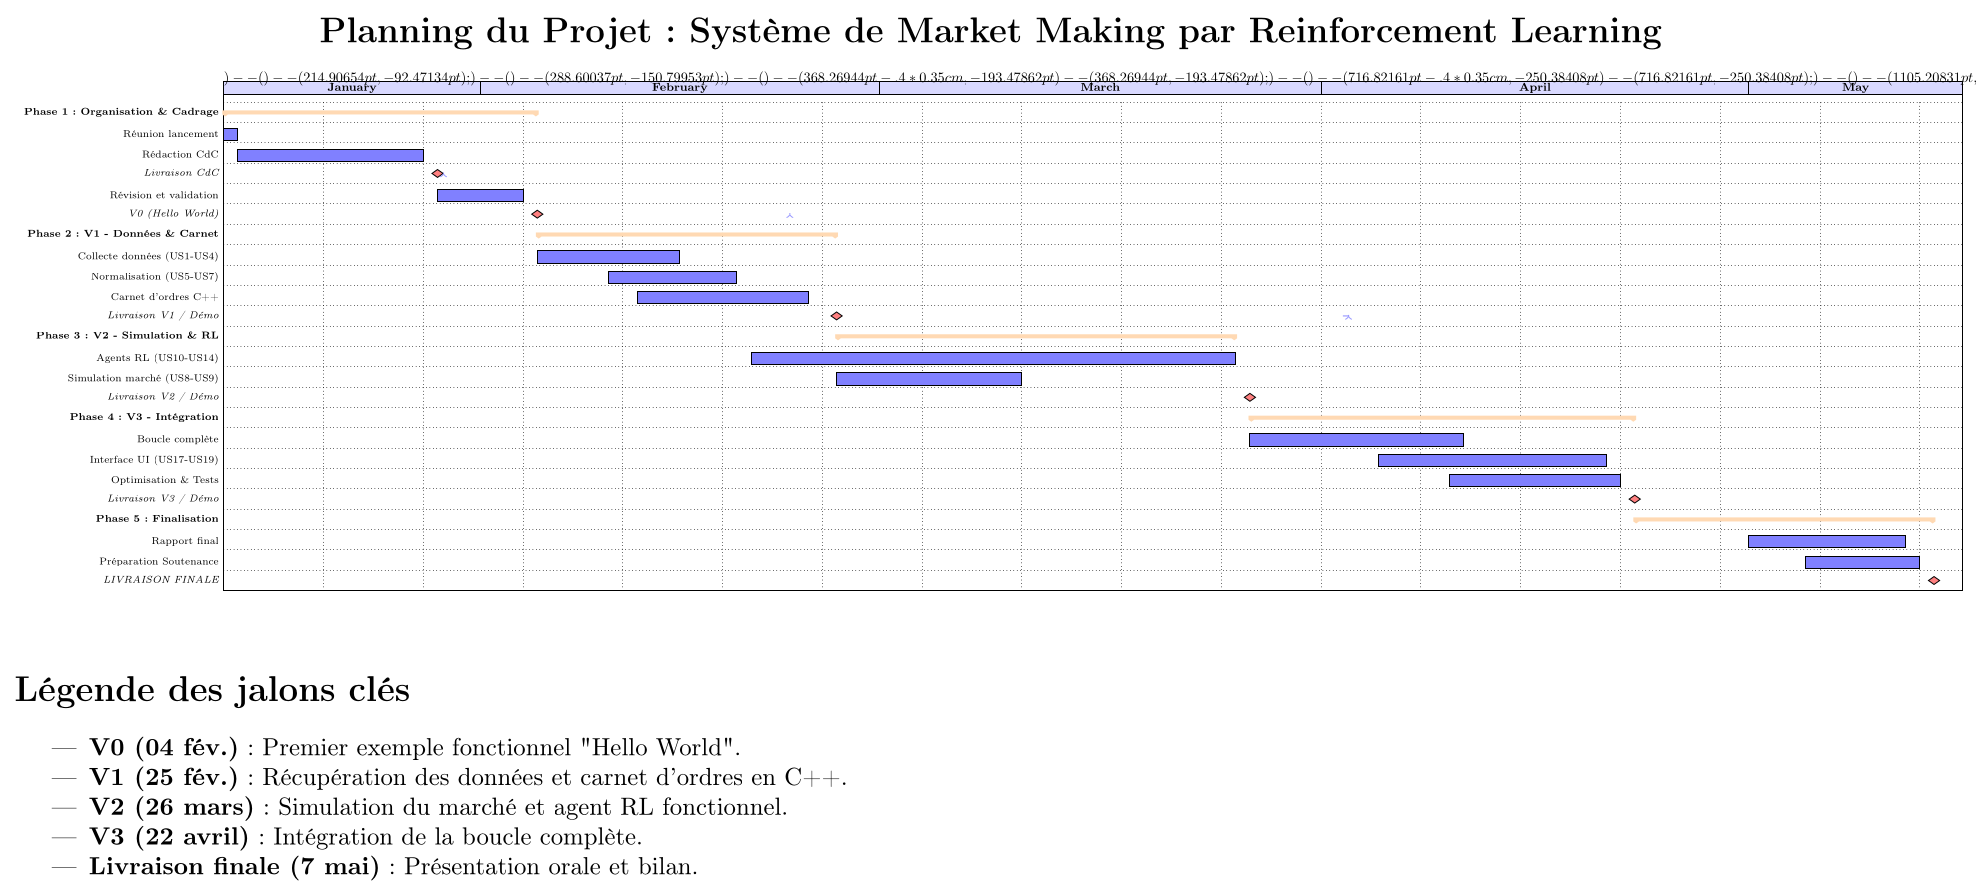
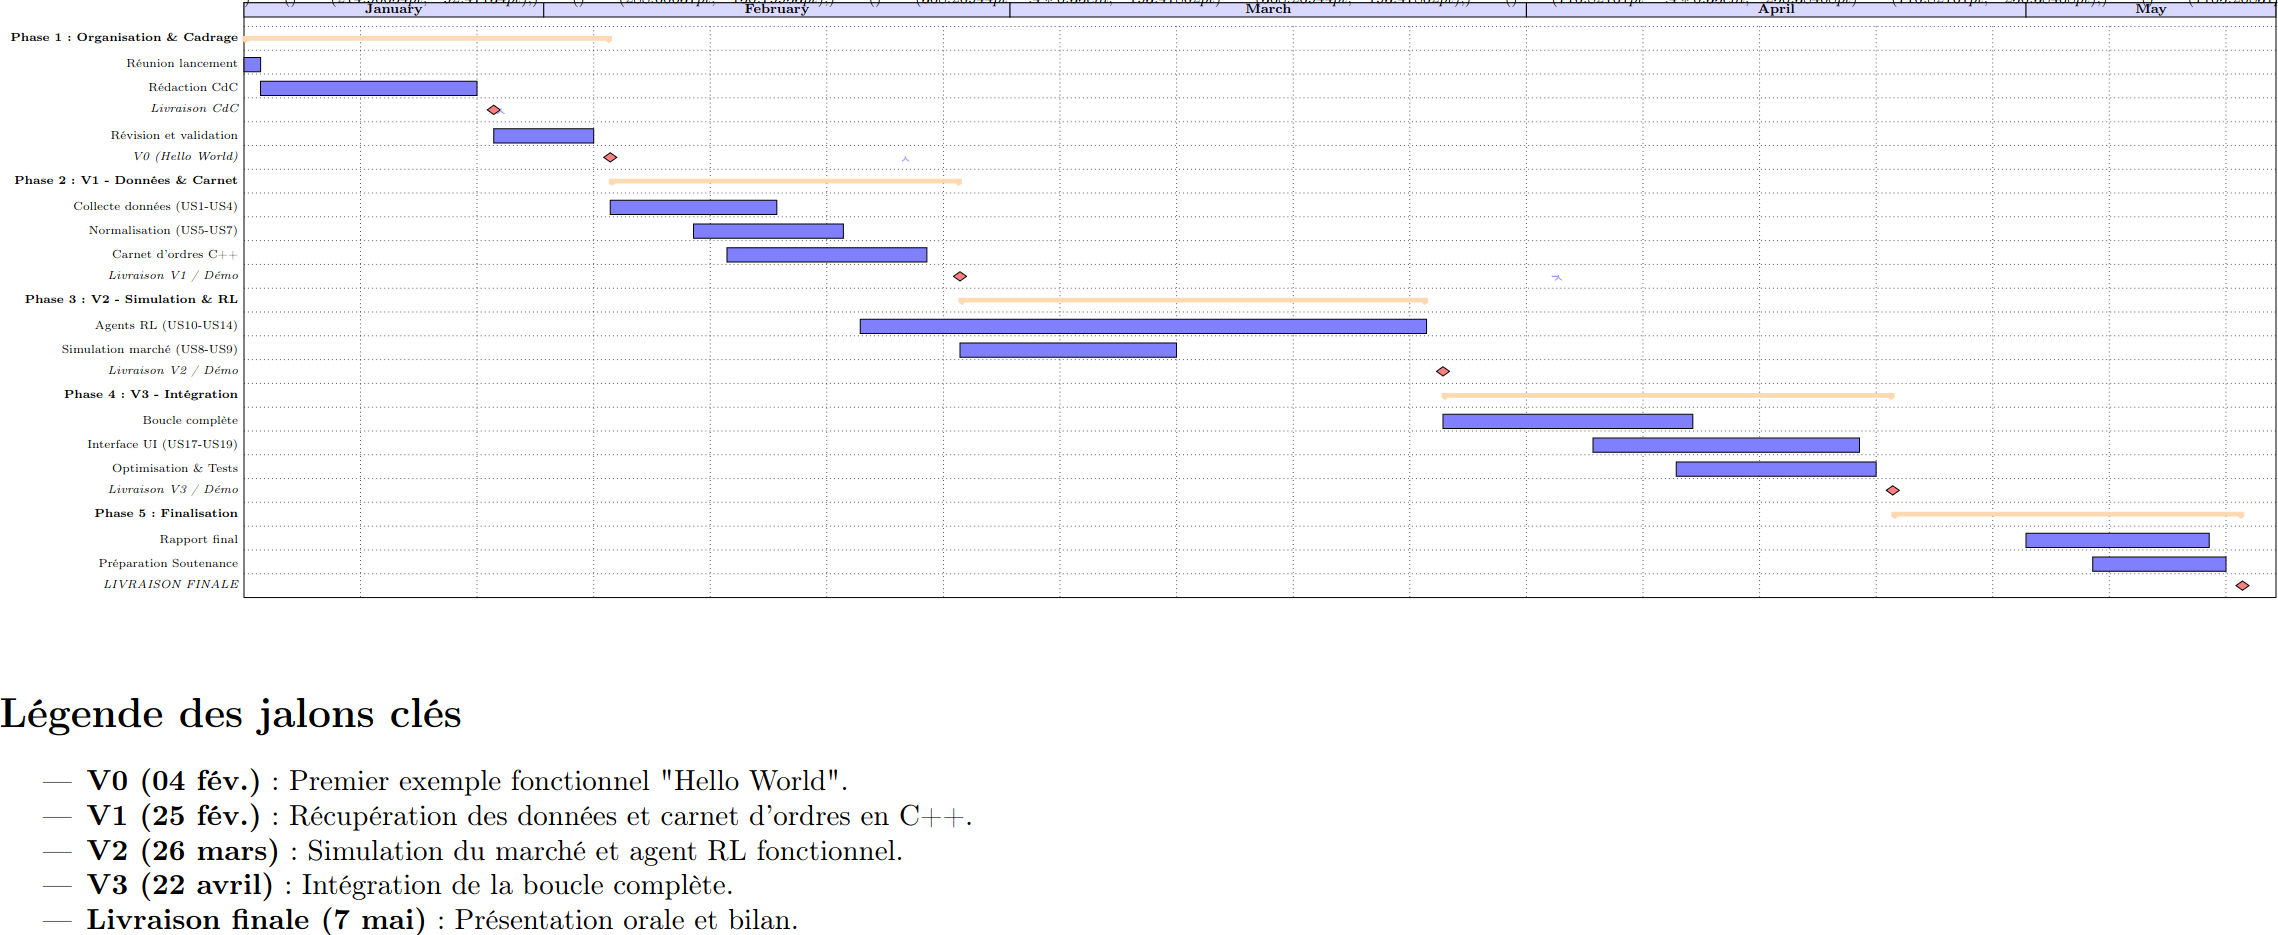
rapport

Changed region(s): [[0.0, 0.0, 1.0, 0.6689], [0.0309, 0.8209, 0.4322, 1.0], [0.0, 0.7297, 0.2161, 0.7905]]

diff --git a/rapport/rapport.tex b/rapport/rapport.tex
@@ -238,8 +238,8 @@ Le client souhaite disposer d'une plateforme permettant :
     \item \textbf{Bella Taleb El Alem} : agent PPO
     \item \textbf{Yani Haouchine} : agent Dreamer~v3
     \item \textbf{Ihab Jaouad} : agent DQN
-    \item \textbf{Anas Benbaki} : agent A2C et moteur de carnet d'ordres C++
-    \item \textbf{Mohamed Aziz Migaou} : agent Dreamer~v3 et moteur de carnet d'ordres C++
+    \item \textbf{Anas Benbaki} : agent A2C
+    \item \textbf{Mohamed Aziz Migaou} : agent Dreamer~v3 moteur de carnet d'ordres C++
     \item \textbf{Soufiane Sbai} : tableau de bord
 \end{itemize}
 
@@ -425,223 +425,22 @@ P_t > \mathrm{SMA}_n(t)+2\sigma_t \Rightarrow \mathrm{SELL}, \quad
 
 \subsubsection{Apprentissage par renforcement}
 
-\paragraph{DQN (Deep Q-Network) -- implémentation du projet.}
-
-L'agent DQN implémenté repose sur une approximation de la fonction
-d'action-valeur $Q_\theta(s,a)$ via un réseau de neurones entraîné
-par l'équation de Bellman :
-\[
-Q(s_t,a_t) \;\leftarrow\; r_t + \gamma \max_{a'} Q_{\theta^-}(s_{t+1},a').
-\]
-
-\subparagraph{Architecture -- réseau Dueling.}
-Contrairement à un MLP classique qui produit directement les
-$Q$-valeurs, l'architecture \textit{dueling} décompose la sortie
-en deux flux parallèles :
-\[
-Q(s,a) = V(s) + \Bigl(A(s,a) - \frac{1}{|\mathcal{A}|}\sum_{a'}A(s,a')\Bigr),
-\]
-où $V(s)$ est la \textbf{fonction de valeur d'état} (scalaire
-indépendant de l'action) et $A(s,a)$ est la
-\textbf{fonction d'avantage} (combien cette action est meilleure que
-la moyenne). La soustraction de la moyenne de $A$ évite
-l'identifiabilité multiple du couple $(V,A)$ et stabilise
-l'apprentissage. Cette séparation est particulièrement bénéfique
-dans les états où toutes les actions ont une valeur similaire
-(\textit{HOLD} dominant) : le réseau met alors à jour $V(s)$
-sans avoir besoin d'observer toutes les actions.
-
-Les couches cachées utilisent l'activation \textbf{SiLU}
-(\textit{Sigmoid Linear Unit}, $x\cdot\sigma(x)$), plus douce que
-ReLU et moins sujette aux neurones morts, ainsi qu'une
-\textbf{LayerNorm} après chaque couche pour normaliser les
-activations indépendamment de la taille du batch -- ce qui
-stabilise l'entraînement sur des séries financières à forte
-non-stationnarité.
-
-\subparagraph{Double DQN -- réduction du biais de surestimation.}
-Le DQN standard souffre d'un biais systématique : l'opérateur
-$\max$ dans la cible de Bellman tend à surestimer les
-$Q$-valeurs, car il sélectionne et évalue la meilleure action
-avec le \emph{même} réseau. Le \textbf{Double DQN} découple ces
-deux opérations :
-\[
-\text{cible} = r_t + \gamma\,
-Q_{\theta^-}\!\Bigl(s_{t+1},\;\underbrace{\arg\max_{a'}
-Q_\theta(s_{t+1},a')}_{\text{sélection par réseau principal}}\Bigr),
-\]
-le réseau principal $Q_\theta$ \emph{sélectionne} l'action
-optimale, tandis que le réseau cible $Q_{\theta^-}$
-\emph{évalue} sa valeur. Cette séparation réduit la surestimation
-et améliore la stabilité et la qualité finale de la politique
-apprise.
-
-\subparagraph{Espace d'état -- dimension 6.}
-Plutôt qu'une fenêtre glissante de bougies brutes, l'état est
-un vecteur compact de six indicateurs calculés en temps réel
-à partir du carnet d'ordres et de l'historique récent :
-
-\begin{itemize}[leftmargin=1.2cm]
-  \item \textbf{Order flow imbalance} : ratio
-        $\frac{V_{\text{bid}} - V_{\text{ask}}}{V_{\text{bid}} +
-        V_{\text{ask}}}$, mesure la pression acheteuse ou vendeuse
-        instantanée dans le carnet.
-  \item \textbf{Spread normalisé} :
-        $\frac{P_{\text{ask}} - P_{\text{bid}}}{P_{\text{mid}}}$,
-        proxy du coût de transaction et de la liquidité.
-  \item \textbf{Déviation au mid-price} : écart relatif du dernier
-        prix exécuté par rapport au mid-price, signal de pression
-        directionnelle récente.
-  \item \textbf{Momentum} : rendement cumulé sur une fenêtre
-        courte, capte la direction et la force de la tendance
-        immédiate.
-  \item \textbf{Inventaire normalisé} : position courante divisée
-        par la limite maximale ($\pm 3$ unités), indispensable pour
-        que l'agent connaisse son exposition et puisse appliquer
-        l'\textit{inventory guard}.
-  \item \textbf{Volatilité réalisée} : écart type des rendements
-        sur la fenêtre récente, permet à l'agent d'adapter son
-        comportement aux régimes calmes ou agités.
-\end{itemize}
-
-Ce vecteur de dimension 6 est délibérément compact :
-les six indicateurs sont tous calculables en $O(1)$ à partir du
-carnet d'ordres courant, ce qui garantit une latence d'inférence
-minimale en conditions temps réel.
-
-\subparagraph{Replay buffer et stratégie d'échantillonnage.}
-Les transitions $(s_t, a_t, r_t, s_{t+1}, \text{done})$ sont
-stockées dans un buffer circulaire de \textbf{200~000 éléments}.
-Cette taille, quatre fois supérieure à celle d'une implémentation
-naïve, permet de conserver plusieurs heures de données de marché
-à haute fréquence et d'assurer une diversité suffisante des
-régimes présents dans chaque mini-batch. Les transitions sont
-tirées uniformément aléatoirement par lots de \textbf{256}, ce
-qui brise les corrélations temporelles des prix -- un biais
-particulièrement prononcé sur les données crypto où les
-autocorrélations à court terme sont fortes.
-
-\subparagraph{Fonction de perte -- Smooth-L1 et gradient clipping.}
-La perte de Huber (\textit{Smooth-L1}) est définie par :
-\[
-\mathcal{L}_\delta(\delta_i) =
-\begin{cases}
-\tfrac{1}{2}\delta_i^2 & |\delta_i| \le 1,\\
-|\delta_i| - \tfrac{1}{2} & |\delta_i| > 1,
-\end{cases}
-\quad \delta_i = Q_{\theta^-}(s',a^*) - Q_\theta(s,a).
-\]
-Pour les petites erreurs elle se comporte comme la MSE (pénalité
-quadratique, gradient doux) ; pour les grandes erreurs elle devient
-linéaire, ce qui réduit l'influence des transitions anormalement
-coûteuses (\textit{outliers} de marché, flash crashes). En
-complément, un \textbf{gradient clipping} (norme maximale fixée)
-empêche des mises à jour catastrophiques lors de transitions
-exceptionnellement pénalisantes.
-
-\subparagraph{Hyperparamètres et justifications.}
-
-\begin{itemize}[leftmargin=1.2cm]
-  \item $\boldsymbol{\gamma = 0.995}$ : facteur d'actualisation
-        élevé, signifiant que l'agent valorise fortement les
-        récompenses futures. Approprié au trading où les positions
-        ouvertes aujourd'hui voient leur P\&L se matérialiser
-        plusieurs dizaines de pas plus tard.
-  \item $\textbf{lr} = 3\times 10^{-4}$ : taux d'apprentissage
-        standard pour Adam sur des données financières ; suffisamment
-        petit pour éviter les oscillations, suffisamment grand pour
-        converger en quelques dizaines d'épisodes.
-  \item \textbf{Batch 256} : plus grand que le batch 32 classique,
-        ce qui réduit la variance du gradient estimé et améliore la
-        stabilité des mises à jour, au prix d'un coût mémoire
-        légèrement supérieur.
-  \item $\boldsymbol{\varepsilon}$ \textbf{décroissant
-        $1.0 \to 0.01$} : exploration totale en début
-        d'entraînement pour peupler le buffer de transitions variées,
-        puis transition progressive vers l'exploitation de la
-        politique apprise.
-\end{itemize}
+\paragraph{DQN (Deep Q-Network).}
+Réseau \textit{dueling} avec activations SiLU et
+LayerNorm, \textbf{Double DQN}, \textit{replay buffer}
+de 200~000 transitions, perte Smooth-L1, gradient
+clipping. L'espace d'état est de dimension 6
+(imbalance, spread, déviation, momentum, inventaire,
+volatilité réalisée). Trois actions : BUY, SELL, HOLD.
+Hyperparamètres : $\gamma = 0.995$, $\text{lr} =
+3\times 10^{-4}$, batch 256, $\varepsilon$ décroissant
+$1.0 \to 0.01$.
 
 \paragraph{A2C (Advantage Actor-Critic).}
-\paragraph{Principe de l'algorithme}\mbox{} \\
-
-L'agent \textit{Advantage Actor-Critic} (A2C) combine deux réseaux de neurones :
-un \textbf{acteur} qui choisit l'action à exécuter, et un \textbf{critique}
-qui estime la valeur de l'état courant. L'objectif de l'acteur est de
-maximiser la récompense attendue, tandis que le critique apprend à prédire
-la valeur du retour observé afin de réduire la variance de l'apprentissage.
-
-Dans notre implémentation, l'espace d'actions est discret et contient trois
-actions possibles :
-\[
-\mathcal{A} = \{\text{HOLD}, \text{BUY}, \text{SELL}\}.
-\]
-L'agent reçoit à chaque pas de temps un état de dimension 121, construit à
-partir des dernières bougies de volume et de l'inventaire courant.
-
-\begin{figure}[H]
-\centering
-\includegraphics[width=0.75\textwidth]{figures/Advantage-Actor-Critic-A2C-architecture.png}
-\caption{Principe général de l'architecture Actor-Critic utilisée pour A2C.}
-\label{fig:a2c_architecture}
-\end{figure}
-
-L'observation fournie à l'agent est composée de quatre blocs de 30 valeurs
-normalisées, auxquels s'ajoute une valeur scalaire correspondant à
-l'inventaire, donc un total de 121 dimensions.
-
-\paragraph{Fonction de récompense}\mbox{} \\
-
-La récompense est calculée à chaque pas de temps en fonction de la variation de la valeur du portefeuille, tout en intégrant une gestion du risque liée à l'exposition. 
-
-\subparagraph{1. Valeur du portefeuille}\mbox{} \\
-La valeur totale du portefeuille à l'instant $t$, notée $V_t$, est définie par la somme des liquidités et de la valeur de l'inventaire au prix de clôture :
-\[
-V_t = \text{cash}_t + (I_t \cdot P_t)
-\]
-où :
-\begin{itemize}
-    \item $\text{cash}_t$ représente les liquidités accumulées (achats et ventes).
-    \item $I_t$ est l'inventaire, soit le nombre de contrats détenus.
-    \item $P_t$ est le prix de clôture de la bougie de volume actuelle.
-\end{itemize}
-
-\subparagraph{2. Calcul de la récompense instantanée}\mbox{} \\
-La récompense $r_t$ repose sur le profit ou la perte latent (\textit{Step PnL}) ajusté par une pénalité d'inventaire quadratique :
-\[
-r_t = \text{clip}\left( (V_t - V_{t-1}) - \lambda I_t^2 P_t, \, -10, \, 10 \right)
-\]
-\begin{itemize}
-    \item \textbf{Variation de PnL} ($V_t - V_{t-1}$) : L'agent est récompensé si la valeur totale de ses actifs augmente.
-    \item \textbf{Pénalité d'inventaire} ($\lambda I_t^2 P_t$) : Pour limiter le risque directionnel, une pénalité est appliquée avec un coefficient $\lambda = 0.0001$. Cette pénalité augmente de façon non linéaire avec la taille de la position.
-    \item \textbf{Écrêtage (Clipping)} : La récompense est contrainte dans l'intervalle $[-10, 10]$ pour stabiliser l'apprentissage du modèle A2C.
-\end{itemize}
-
-\paragraph{Fonctions de Loss}\mbox{} \\
-
-L'apprentissage de l'acteur repose sur l'avantage :
-\[
-A_t = R_t - V(s_t),
-\]
-où \(R_t\) représente le retour observé et \(V(s_t)\) la valeur estimée par
-le critique. La perte de l'acteur s'écrit :
-\[
-\mathcal{L}_{actor} =
--\log \pi_\theta(a_t \mid s_t)\, A_t
-- \beta \, \mathcal{H}\big(\pi_\theta(\cdot \mid s_t)\big),
-\]
-avec \(\beta\) le coefficient d'entropie et \(\mathcal{H}\) l'entropie de la
-politique. Le terme d'entropie évite que la politique devienne trop vite
-déterministe. Un coefficient plus élevé
-favorise l'exploration, tandis qu'un coefficient plus faible pousse l'agent
-à exploiter davantage les stratégies déjà apprises.
-
-La perte du critique est une erreur quadratique moyenne entre la valeur
-prédite et le retour observé :
-\[
-\mathcal{L}_{critic} = \big(R_t - V(s_t)\big)^2.
-\]
-
+Acteur et critique partageant un tronc commun, mise à
+jour synchrone par avantage estimé. Variante
+permettant de comparer une approche \textit{policy-based}
+au DQN \textit{value-based}.
 
 \paragraph{PPO (Proximal Policy Optimization).}
 L'agent PPO est formulé comme un \textbf{market maker
@@ -813,17 +612,7 @@ diversité des trajectoires.
 Les métriques suivies par épisode sont :
 récompense totale, loss moyenne épisode, nombre de trades,
 inventaire moyen (valeur absolue), PnL réalisé et epsilon.
-\subsection{Validation manuelle}
 
-Des scripts \texttt{test\_dqn\_manual.py} et
-\texttt{test\_sma\_manual.py} vérifient que :
-\begin{itemize}[leftmargin=1.2cm]
-    \item BUY est sélectionné dans les contextes attendus ;
-    \item SELL est bloqué quand l'inventaire est nul
-          (\textit{inventory guard}) ;
-    \item la SMA est calculée correctement sur la
-          fenêtre glissante.
-\end{itemize}
 % ===============================================================
 \section{Résultats et discussion}
 \label{sec:resultats}
@@ -845,7 +634,119 @@ HFT extrême).
 \subsubsection{Advantage Actor-Critic (A2C)}
 \label{sec:a2c}
 
+\paragraph{Principe de l'algorithme}\mbox{} \\
 
+L'agent \textit{Advantage Actor-Critic} (A2C) combine deux réseaux de neurones :
+un \textbf{acteur} qui choisit l'action à exécuter, et un \textbf{critique}
+qui estime la valeur de l'état courant. L'objectif de l'acteur est de
+maximiser la récompense attendue, tandis que le critique apprend à prédire
+la valeur du retour observé afin de réduire la variance de l'apprentissage.
+
+Dans notre implémentation, l'espace d'actions est discret et contient trois
+actions possibles :
+\[
+\mathcal{A} = \{\text{HOLD}, \text{BUY}, \text{SELL}\}.
+\]
+L'agent reçoit à chaque pas de temps un état de dimension 121, construit à
+partir des dernières bougies de volume et de l'inventaire courant.
+
+\begin{figure}[H]
+\centering
+\includegraphics[width=0.75\textwidth]{figures/Advantage-Actor-Critic-A2C-architecture.png}
+\caption{Principe général de l'architecture Actor-Critic utilisée pour A2C.}
+\label{fig:a2c_architecture}
+\end{figure}
+
+\paragraph{Représentation de l'état} \mbox{} \\
+
+L'observation fournie à l'agent est composée de quatre blocs de 30 valeurs
+normalisées, auxquels s'ajoute une valeur scalaire correspondant à
+l'inventaire :
+\[
+s_t = \big[\text{close}_{t-29:t},\ \text{high}_{t-29:t},\ \text{low}_{t-29:t},\ \text{volume}_{t-29:t},\ \text{inventory}_t\big].
+\]
+Chaque bloc est normalisé par rapport à la dernière clôture de la fenêtre,
+ce qui permet de rendre l'apprentissage plus stable et plus robuste aux
+variations d'échelle du prix.
+
+\paragraph{Fonction de récompense}\mbox{} \\
+
+La récompense est calculée à chaque pas de temps en fonction de la variation de la valeur du portefeuille, tout en intégrant une gestion du risque liée à l'exposition. 
+
+\subparagraph{1. Valeur du portefeuille}\mbox{} \\
+La valeur totale du portefeuille à l'instant $t$, notée $V_t$, est définie par la somme des liquidités et de la valeur de l'inventaire au prix de clôture :
+\[
+V_t = \text{cash}_t + (I_t \cdot P_t)
+\]
+où :
+\begin{itemize}
+    \item $\text{cash}_t$ représente les liquidités accumulées (achats et ventes).
+    \item $I_t$ est l'inventaire, soit le nombre de contrats détenus.
+    \item $P_t$ est le prix de clôture de la bougie de volume actuelle.
+\end{itemize}
+
+\subparagraph{2. Calcul de la récompense instantanée}\mbox{} \\
+La récompense $r_t$ repose sur le profit ou la perte latent (\textit{Step PnL}) ajusté par une pénalité d'inventaire quadratique :
+\[
+r_t = \text{clip}\left( (V_t - V_{t-1}) - \lambda I_t^2 P_t, \, -10, \, 10 \right)
+\]
+\begin{itemize}
+    \item \textbf{Variation de PnL} ($V_t - V_{t-1}$) : L'agent est récompensé si la valeur totale de ses actifs augmente.
+    \item \textbf{Pénalité d'inventaire} ($\lambda I_t^2 P_t$) : Pour limiter le risque directionnel, une pénalité est appliquée avec un coefficient $\lambda = 0.0001$. Cette pénalité augmente de façon non linéaire avec la taille de la position.
+    \item \textbf{Écrêtage (Clipping)} : La récompense est contrainte dans l'intervalle $[-10, 10]$ pour stabiliser l'apprentissage du modèle A2C.
+\end{itemize}
+
+\subparagraph{3. Conditions d'exécution}\mbox{} \\
+La mise à jour de $V_t$ dépend de l'exécution des ordres \textit{limit} placés par l'agent :
+\begin{itemize}
+    \item Un \textbf{achat} est validé si le prix bas de la bougie atteint le prix bid de l'agent : $P_{\text{low}} \le P_{\text{bid\_agent}}$.
+    \item Une \textbf{vente} est validée si le prix haut de la bougie atteint le prix ask de l'agent : $P_{\text{high}} \ge P_{\text{ask\_agent}}$.
+\end{itemize}
+\paragraph{Perte d'apprentissage}\mbox{} \\
+
+L'apprentissage de l'acteur repose sur l'avantage :
+\[
+A_t = R_t - V(s_t),
+\]
+où \(R_t\) représente le retour observé et \(V(s_t)\) la valeur estimée par
+le critique. La perte de l'acteur s'écrit :
+\[
+\mathcal{L}_{actor} =
+-\log \pi_\theta(a_t \mid s_t)\, A_t
+- \beta \, \mathcal{H}\big(\pi_\theta(\cdot \mid s_t)\big),
+\]
+avec \(\beta\) le coefficient d'entropie et \(\mathcal{H}\) l'entropie de la
+politique. Le terme d'entropie évite que la politique devienne trop vite
+déterministe.
+
+La perte du critique est une erreur quadratique moyenne entre la valeur
+prédite et le retour observé :
+\[
+\mathcal{L}_{critic} = \big(R_t - V(s_t)\big)^2.
+\]
+
+\paragraph{Coefficient d'entropie}\mbox{} \\
+
+Le coefficient d'entropie n'est pas fixé dans l'absolu : il peut être
+constant ou décroître au cours de l'entraînement. Un coefficient plus élevé
+favorise l'exploration, tandis qu'un coefficient plus faible pousse l'agent
+à exploiter davantage les stratégies déjà apprises.
+
+Dans notre cas, une décroissance progressive du coefficient d'entropie peut
+être utilisée pour encourager l'exploration au début, puis stabiliser la
+politique sur la fin de l'entraînement.
+
+\paragraph{Architecture du modèle}\mbox{} \\
+
+L'acteur et le critique utilisent des réseaux multicouches entièrement
+connectés. L'acteur produit des logits pour les trois actions possibles,
+puis une loi de probabilité catégorielle est construite à partir de ces logits.
+L'action est ensuite échantillonnée pendant l'entraînement et choisie de
+manière gloutonne lors de l'inférence.
+
+Le critique estime une valeur scalaire à partir de l'état courant. Cette
+estimation sert à calculer l'avantage et à guider la mise à jour des poids
+du réseau de politique.
 
 \paragraph{Résultats d'entraînement}\mbox{} \\
 
@@ -1064,8 +965,7 @@ sa politique au fil de l'entraînement.
 objectifs de performance, l'intégration Binance est
 stable, les stratégies par règles donnent une
 \textit{baseline} interprétable et les agents RL
-convergent visiblement (figures \ref{fig:a2c},
-\ref{fig:ppo_train}, \ref{fig:dreamer}).
+convergent sur les données d'entraînement.
 
 \paragraph{Limites observées.} Les agents RL restent
 sensibles à la qualité du \textit{reward shaping} et
